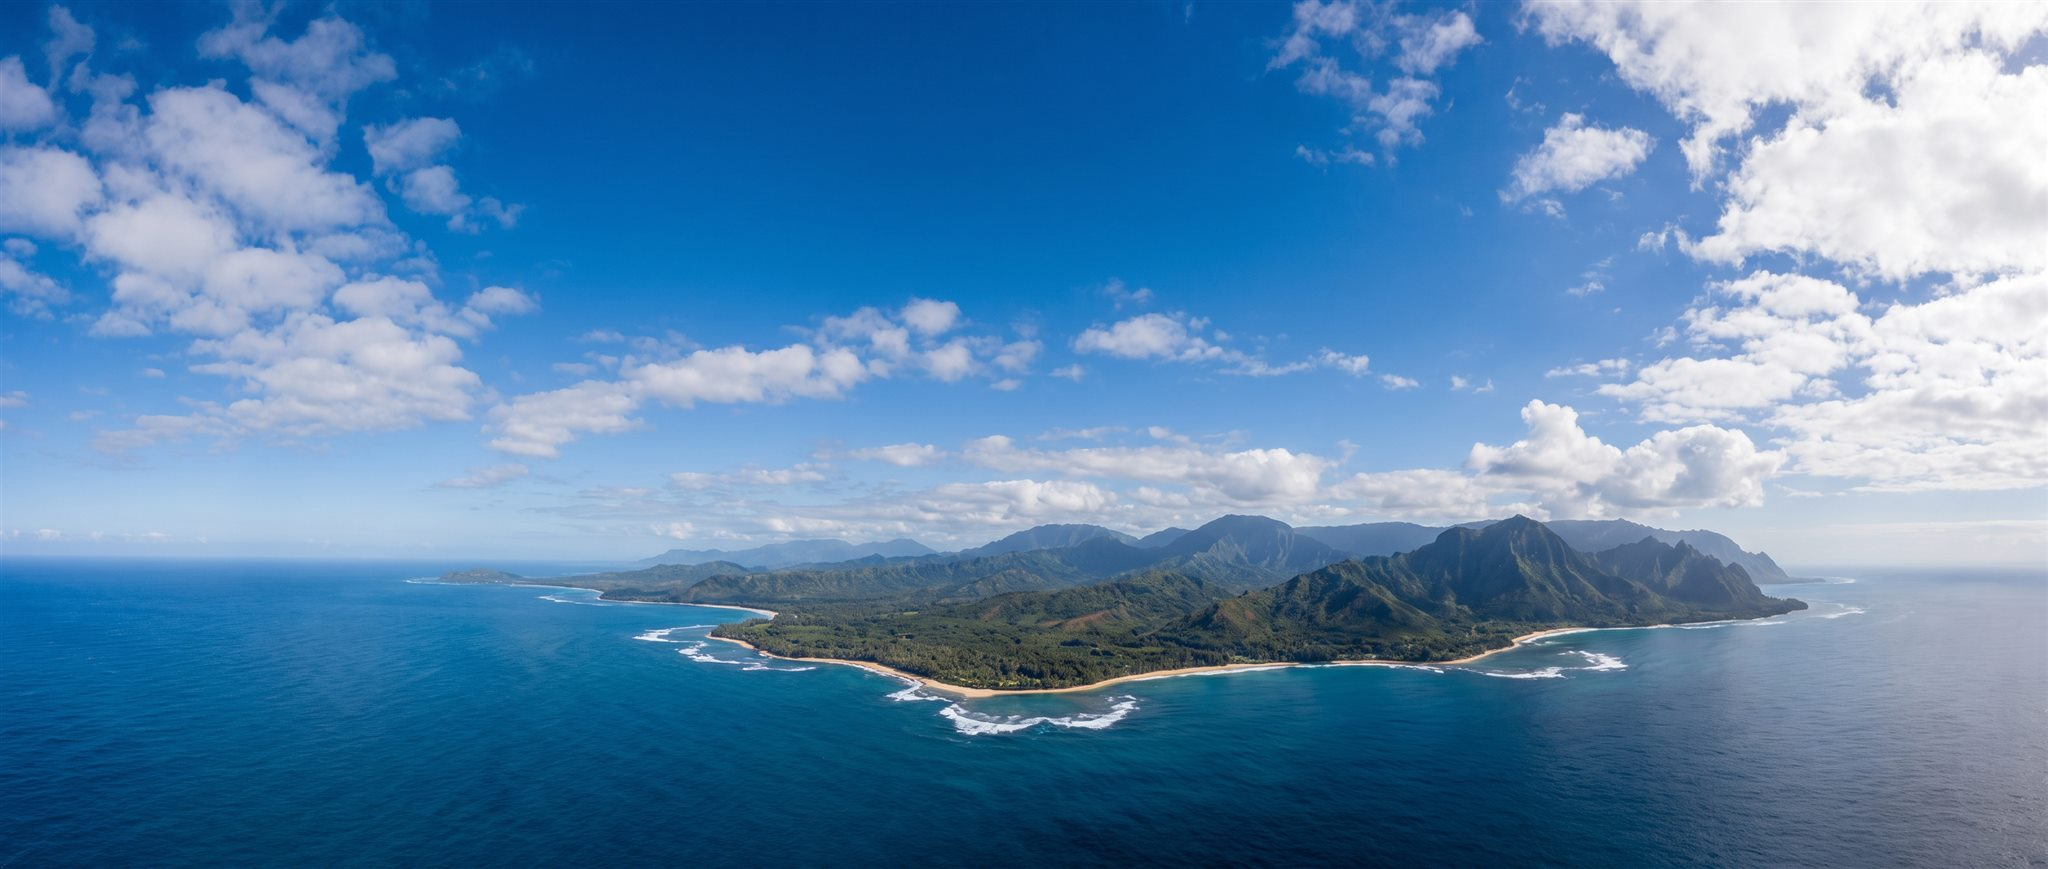
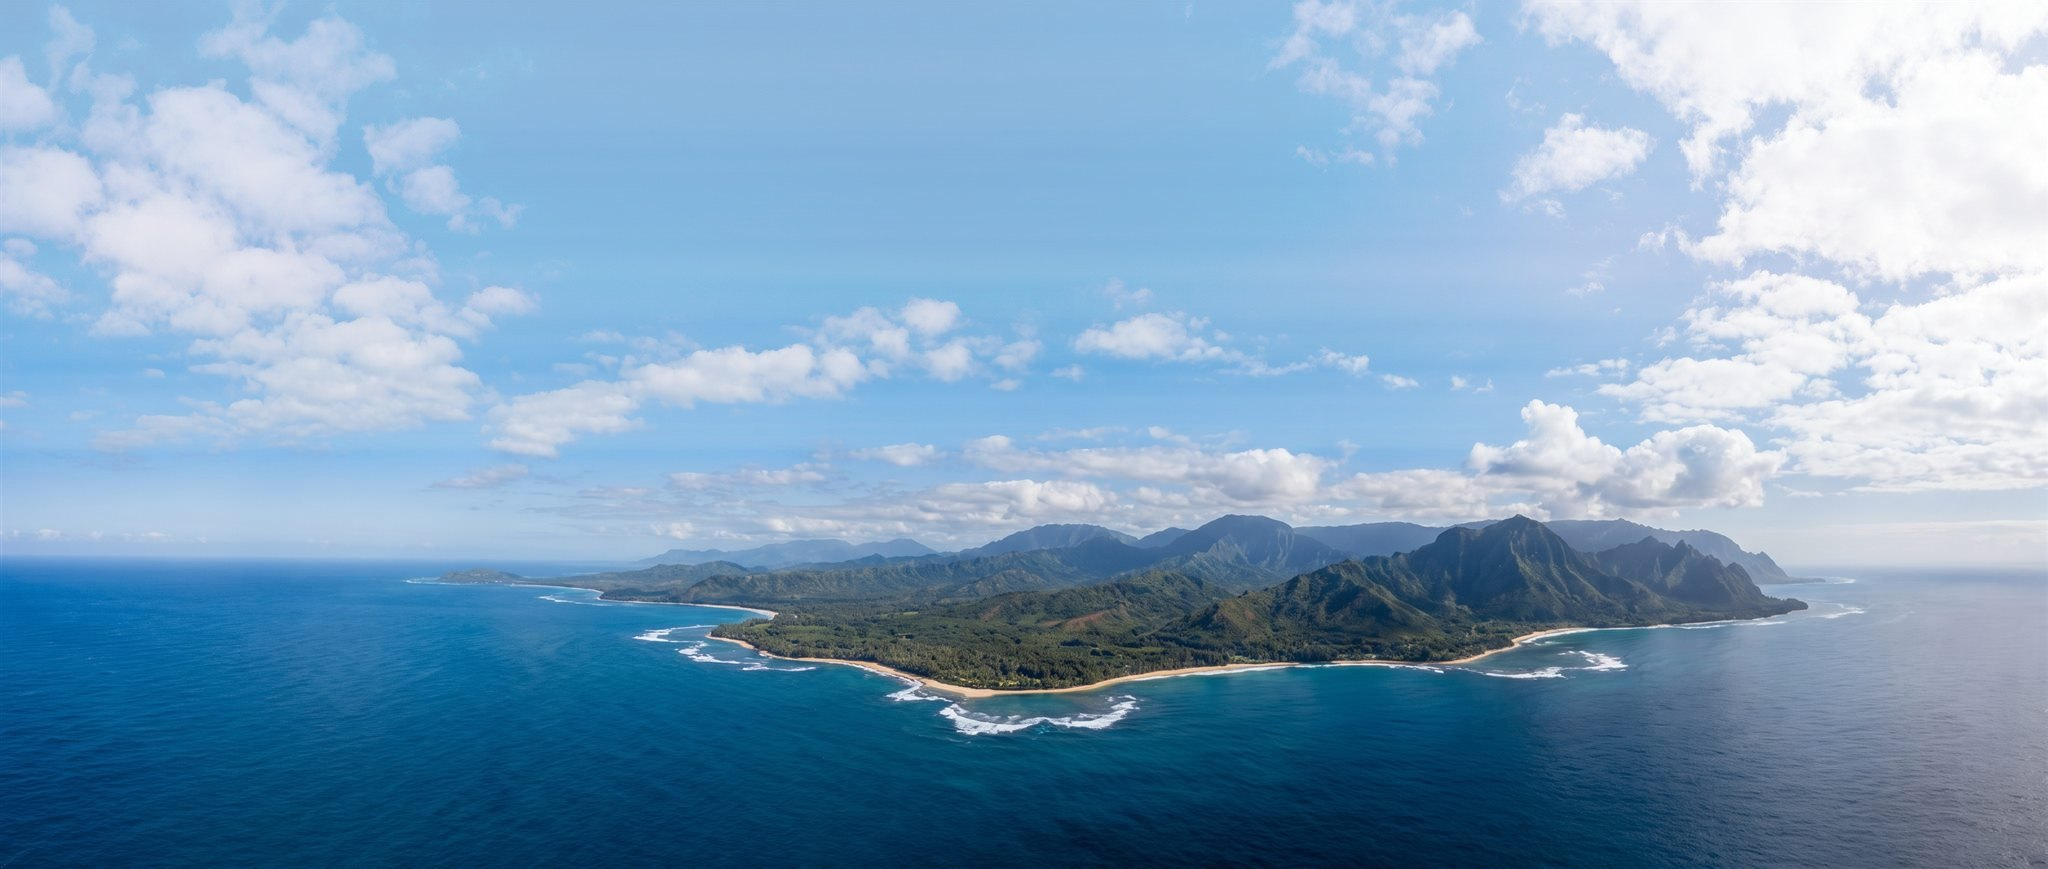
fix(p38-3d): 하늘이 진한 파랑/하늘색 두 개로 갈리던 것을 하늘색 하나로
"하늘이 하늘색과 파란색 두 개로 나눠져 있다" — 사장님 지적.
원인은 렌더링이 아니라 **파노라마 사진 자체**였다. pano-day.jpg 의 세로 색 분포가
천정 (66,119,173) 진한 파랑 → 수평선 (178,197,221) 옅은 하늘색 으로,
하늘 구간 안에서만 밝기가 119~199(차이 80) 벌어져 두 장을 붙인 것처럼 보였다.

→ 수평선(y=484, 55.7%) 위쪽 하늘을 **하늘색 한 가지(170,201,230)** 로 평탄화.
   결과 밝기 197~200(차이 3). 수평선 근처 8% 는 원래 색으로 되돌려 이음매를 없앴다.
🔴 그냥 더하면 구름(거의 흰색)이 255 를 넘어 뭉개진다 → **남은 여유(headroom)에 비례해** 더한다.
   어두운 파랑은 다 올라가고 흰 구름은 거의 안 움직인다. 실측 구름 디테일 유지(포화화소 0.2%).
🔴 headroom 가중은 목표에 미달한다(1회 적용 시 차이 36 에서 멈춤) → 오차 보정 2회 반복.
파일 192KB → 178KB(작아짐). 바다·육지·야간 파노라마는 손대지 않았다.

같이 맞춘 것
· 폴백 캔버스 하늘도 한 가지 하늘색으로(#2a68b4 천정 → #aac9e6). 사진 로드 전 화면이 갈려 보이던 것도 제거
· 주간 안개색 0xc9dced → 0xb4cfe8 (새 하늘색에 맞춤)
· 🔴 파일명이 같으므로 `?v=1` → `?v=2` 로 올려야 브라우저가 옛 하늘을 계속 쓰지 않는다

검증: 기수올림·수평 두 자세에서 창 전체가 한 가지 하늘색(브라우저 실측 스크린샷),
야간 모드 무변화 확인 · 인라인 JS 문법오류 0 · 하니스 48 PASS / 0 FAIL(asset 하니스 포함)

diff --git a/cloudflare-deploy/public/student-game-p38-3d.html b/cloudflare-deploy/public/student-game-p38-3d.html
@@ -935,7 +935,7 @@ function init3D(){
   scene=new THREE.Scene();
   /* ⚠ far 를 짧게 잡으면 바다가 통째로 안개색(거의 흰색)이 되어 화면 아래에 '흰 띠'가 생긴다.
      예전에 바다를 뺐던 이유가 이것이었다. far 를 크게 잡아야 바다가 파란색을 유지한다. */
-  scene.fog=new THREE.Fog(0xbcd9ee, 1400, 11000);
+  scene.fog=new THREE.Fog(0xb4cfe8, 1400, 11000);   // 하늘색 통일에 맞춘 값
 
   camera=new THREE.PerspectiveCamera(66, 1, 0.5, 6000);
   player=new THREE.Object3D(); player.position.set(0,0,0);
@@ -1008,7 +1008,7 @@ function init3D(){
    ⚠ envMap 이 있어야 기체 금속면에 하늘이 비쳐 '사진처럼' 보인다. Lambert 로는 안 나오는 질감이다. */
 var PANO_CACHE={}, PANO_ENV={};
 function loadPano(mode){
-  var url = (mode==='night') ? '/img/pano-night.jpg?v=1' : '/img/pano-day.jpg?v=1';
+  var url = (mode==='night') ? '/img/pano-night.jpg?v=1' : '/img/pano-day.jpg?v=2';   // v2 = 하늘색 한 가지로 통일
   function apply(t){
     if(!skyMatRef) return;
     skyMatRef.map=t; skyMatRef.needsUpdate=true;
@@ -1043,7 +1043,7 @@ function setTimeOfDay(mode){
   if(hemi){ hemi.intensity = night ? 0.34 : 1.15;
     hemi.color.setHex(night ? 0x9fb6e0 : 0xe8f4ff); hemi.groundColor.setHex(night ? 0x141d2c : 0x6b7a5a); }
   if(sun){ sun.intensity = night ? 0.42 : 1.45; sun.color.setHex(night ? 0xbcd0ff : 0xfff2d8); }
-  if(scene && scene.fog) scene.fog.color.setHex(night ? 0x14203a : 0xc9dced);
+  if(scene && scene.fog) scene.fog.color.setHex(night ? 0x14203a : 0xb4cfe8);
   // 별·달은 파노라마 사진에 이미 들어 있으므로 3D 로 또 그리지 않는다(이중으로 보인다)
   if(starsMesh) starsMesh.visible = false;
   if(moonSprite) moonSprite.visible = false;
@@ -1053,12 +1053,13 @@ function setTimeOfDay(mode){
 }
 function makeSkyCanvas(){
   var c=document.createElement('canvas'); c.width=4; c.height=256; var x=c.getContext('2d');
-  // ⚠ 텍스처는 flipY 라 캔버스 위쪽(y=0)이 구의 '천정'(v=1)에 온다 — 위=진한 파랑, 아래=옅은 수평선색
+  /* ⚠ 텍스처는 flipY 라 캔버스 위쪽(y=0)이 구의 '천정'(v=1)에 온다.
+     예전엔 천정을 진한 파랑(#2a68b4)으로 두어 하늘이 '진한 파랑'과 '하늘색' 두 개로 갈려 보였다 — 사장님 지적.
+     파노라마와 똑같이 **하늘색 한 가지**로 통일한다(수평선 부근만 아주 살짝 옅게). */
   var g=x.createLinearGradient(0,0,0,256);
-  g.addColorStop(0.00,'#2a68b4');   // 천정
-  g.addColorStop(0.30,'#4b93d6');
-  g.addColorStop(0.66,'#8ec2e8');
-  g.addColorStop(1.00,'#c3e0f2');   // 수평선
+  g.addColorStop(0.00,'#aac9e6');   // 천정
+  g.addColorStop(0.55,'#aec9e6');
+  g.addColorStop(1.00,'#b8d2ea');   // 수평선
   x.fillStyle=g; x.fillRect(0,0,4,256); return c;
 }
 function makeCloudCanvas(){
